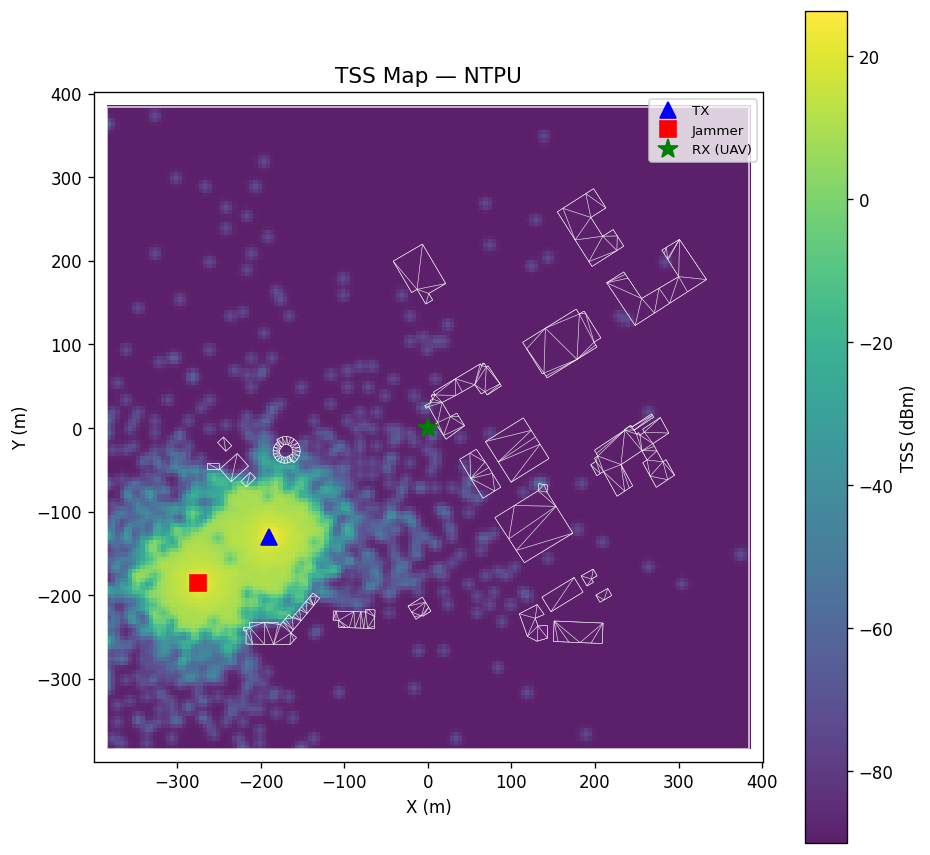
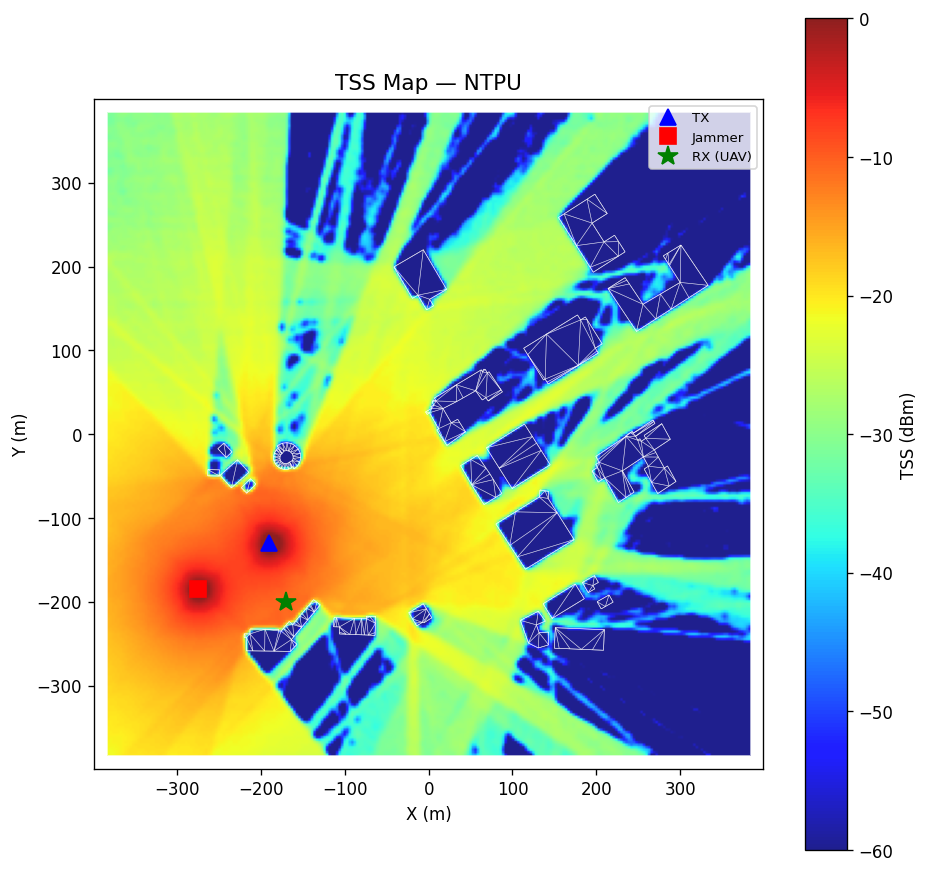
修復 ISS/TSS/CFAR map 現在可以顯示完整訊號地圖

diff --git a/frontend/src/components/ui/SimulationPanel.tsx b/frontend/src/components/ui/SimulationPanel.tsx
@@ -48,8 +48,8 @@ export function SimulationPanel({ sceneId = 'NTPU' }: { sceneId?: string }) {
   const [sinrParams, setSinrParams] = useState<SINRParams>({
     sinr_vmin: -20,
     sinr_vmax: 40,
-    cell_size: 5.0,
-    samples_per_tx: 100000,
+    cell_size: 3.0,
+    samples_per_tx: 100000000,
   });
 
   const devices = useDeviceStore(state => state.devices);
@@ -235,10 +235,10 @@ export function SimulationPanel({ sceneId = 'NTPU' }: { sceneId?: string }) {
                     onChange={e => setSinrParams(p => ({ ...p, samples_per_tx: Number(e.target.value) }))}
                     style={selectStyle}
                   >
-                    <option value={10000}>10K (~30s)</option>
-                    <option value={100000}>100K (~2min)</option>
-                    <option value={500000}>500K (~10min)</option>
-                    <option value={1000000}>1M (~20min)</option>
+                    <option value={500000}>500K (less)</option>
+                    <option value={1000000}>1M (medium)</option>
+                    <option value={100000000}>100M (recommend)</option>
+                    <option value={1000000000}>1B (more)</option>
                   </select>
                   {tab !== 'sinr' && (
                     <>

diff --git a/frontend/src/App.tsx b/frontend/src/App.tsx
@@ -164,7 +164,7 @@ export function App() {
   }, [allDevices, selectedDeviceId]);
 
   // ── UAV 位置 + 軌跡 ──────────────────────────────────────────────
-  const [uavPosition, setUavPosition] = useState<[number, number, number]>([0, 10, 0]);
+  const [uavPosition, setUavPosition] = useState<[number, number, number]>([-170, 10, 200]);
   const [uavPath, setUavPath] = useState<Array<{ x: number; y: number; z: number }>>([]);
 
   // ── 同步 UAV 位置 → DeviceStore rx（讓 ISS/SINR 模擬使用即時座標）────

diff --git a/frontend/src/hooks/useDeviceStore.ts b/frontend/src/hooks/useDeviceStore.ts
@@ -40,7 +40,7 @@ const DEFAULT_DEVICES: Device[] = [
     id: 'dev-rx-0',
     name: 'rx-0',
     role: 'rx',
-    x: -175,
+    x: -170,
     y: 10,
     z: 200,
   },

diff --git a/frontend/src/store/useDeviceStore.ts b/frontend/src/store/useDeviceStore.ts
@@ -40,7 +40,7 @@ const DEFAULT_DEVICES: Device[] = [
     id: 'dev-rx-0',
     name: 'rx-0',
     role: 'rx',
-    x: -175,
+    x: -170,
     y: 10,
     z: 200,
   },

diff --git a/backend/app/sionna_service_lite.py b/backend/app/sionna_service_lite.py
@@ -171,8 +171,7 @@ def _draw_scene_footprints(ax, footprints: list[dict]) -> None:
                 max_x - min_x,
                 max_y - min_y,
                 fill=False,
-                edgecolor="white",
-                linewidth=1.2,
+                linewidth=1,
                 alpha=0.65,
                 zorder=2,
             )
@@ -185,7 +184,7 @@ def _draw_scene_footprints(ax, footprints: list[dict]) -> None:
                 LineCollection(
                     lines,
                     colors="white",
-                    linewidths=0.35,
+                    linewidths=1,
                     alpha=0.55,
                     zorder=3,
                 )
@@ -197,7 +196,7 @@ def _draw_scene_footprints(ax, footprints: list[dict]) -> None:
                 max_y - min_y,
                 fill=False,
                 edgecolor="white",
-                linewidth=0.5,
+                linewidth=1,
                 alpha=0.55,
                 zorder=3,
             )
@@ -225,11 +224,13 @@ def generate_maps(
     output_dir: str,
     scene_name: str = "ntpu",
     map_type: str = "iss",          # "iss" | "tss" | "cfar"
-    cell_size: float = 4.0,
+    cell_size: float = 3.0,
     map_size: tuple = (512, 512),
     samples_per_tx: int = 10 ** 6,  # reduced for lite version
     altitude: float = 1.5,          # map altitude in metres (Sionna z)
     gaussian_sigma: float = 1.0,
+    vmin_dbm: float = -60.0,
+    vmax_dbm: float = 0.0,
     cfar_min_distance: int = 3,
     cfar_threshold_percentile: float = 99.5,
     frequency_hz: float = 1.5e9,
@@ -423,17 +424,28 @@ def generate_maps(
         data = iss_smooth
         title = f"ISS Map — {scene_name.upper()}"
         cbar_label = "ISS (dBm)"
-        cmap = "hot"
+        cmap = "jet"
     elif map_type == "tss":
         data = gaussian_filter(tss_dbm, sigma=gaussian_sigma)
         title = f"TSS Map — {scene_name.upper()}"
         cbar_label = "TSS (dBm)"
-        cmap = "viridis"
+        cmap = "jet"
     else:  # cfar
         data = iss_smooth
         title = f"ISS+CFAR Map — {scene_name.upper()}"
         cbar_label = "ISS (dBm)"
-        cmap = "hot"
+        cmap = "jet"
+
+    map_vmin = float(vmin_dbm)
+    map_vmax = float(vmax_dbm)
+    if map_vmax <= map_vmin:
+        map_vmax = map_vmin + 1.0
+    logger.info(
+        "Plot scale for %s map: vmin=%.2f dBm, vmax=%.2f dBm",
+        map_type.upper(),
+        map_vmin,
+        map_vmax,
+    )
 
     # -----------------------------------------------------------------------
     # Plot
@@ -474,6 +486,8 @@ def generate_maps(
         origin="lower",
         aspect="equal",
         cmap=cmap,
+        vmin=map_vmin,
+        vmax=map_vmax,
         alpha=0.88,
         zorder=1,
         extent=[heatmap_x_min, heatmap_x_max, heatmap_y_min, heatmap_y_max],

diff --git a/backend/app/main.py b/backend/app/main.py
@@ -778,7 +778,7 @@ async def sionna_sinr_map(
     sinr_vmin: float = Query(default=-20.0, description="SINR 色階下限 (dB)"),
     sinr_vmax: float = Query(default=40.0,  description="SINR 色階上限 (dB)"),
     cell_size: float = Query(default=2.0,   description="採樣格子大小 (m)"),
-    samples_per_tx: int = Query(default=1000000, description="每個 TX 的採樣數"),
+    samples_per_tx: int = Query(default=100000000, description="每個 TX 的採樣數"),
 ):
     """Generate SINR coverage map and return the PNG."""
     try:
@@ -878,7 +878,7 @@ class SimulateRequest(BaseModel):
     scene: str
     map_type: str
     cell_size: float = Field(default=4.0, gt=0)
-    samples_per_tx: int = Field(default=1000000, ge=10000)
+    samples_per_tx: int = Field(default=100000000, ge=10000)
     overlay_scene: bool = Field(default=False)
     devices: List[DeviceIn]
 

diff --git a/backend/app/sionna_service.py b/backend/app/sionna_service.py
@@ -69,7 +69,7 @@ DEFAULT_TX_LIST = [
 DEFAULT_JAM_LIST = [
     ("jammer_tx", [30, -50, 20], [0.0, 0.0, 0.0], "jammer", 23.0),
 ]
-DEFAULT_RX = ("rx", [0, 0, 5])
+DEFAULT_RX = ("rx", [-170, 10, 200])
 
 
 # ── 工具函式 ─────────────────────────────────────────────────────────────────
